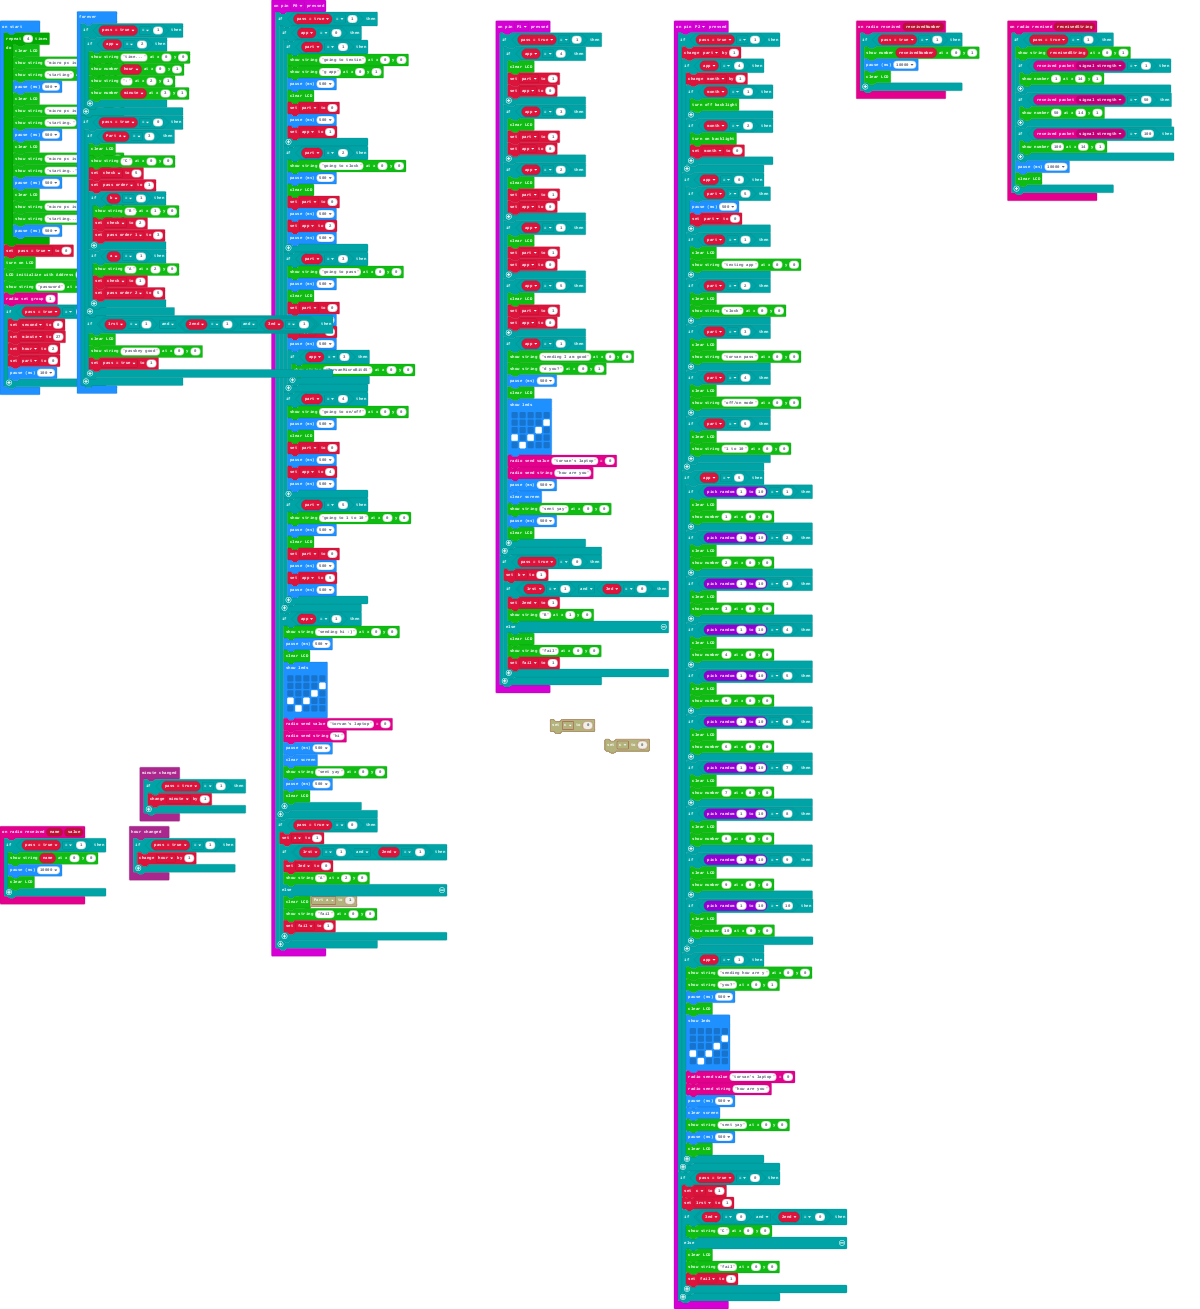
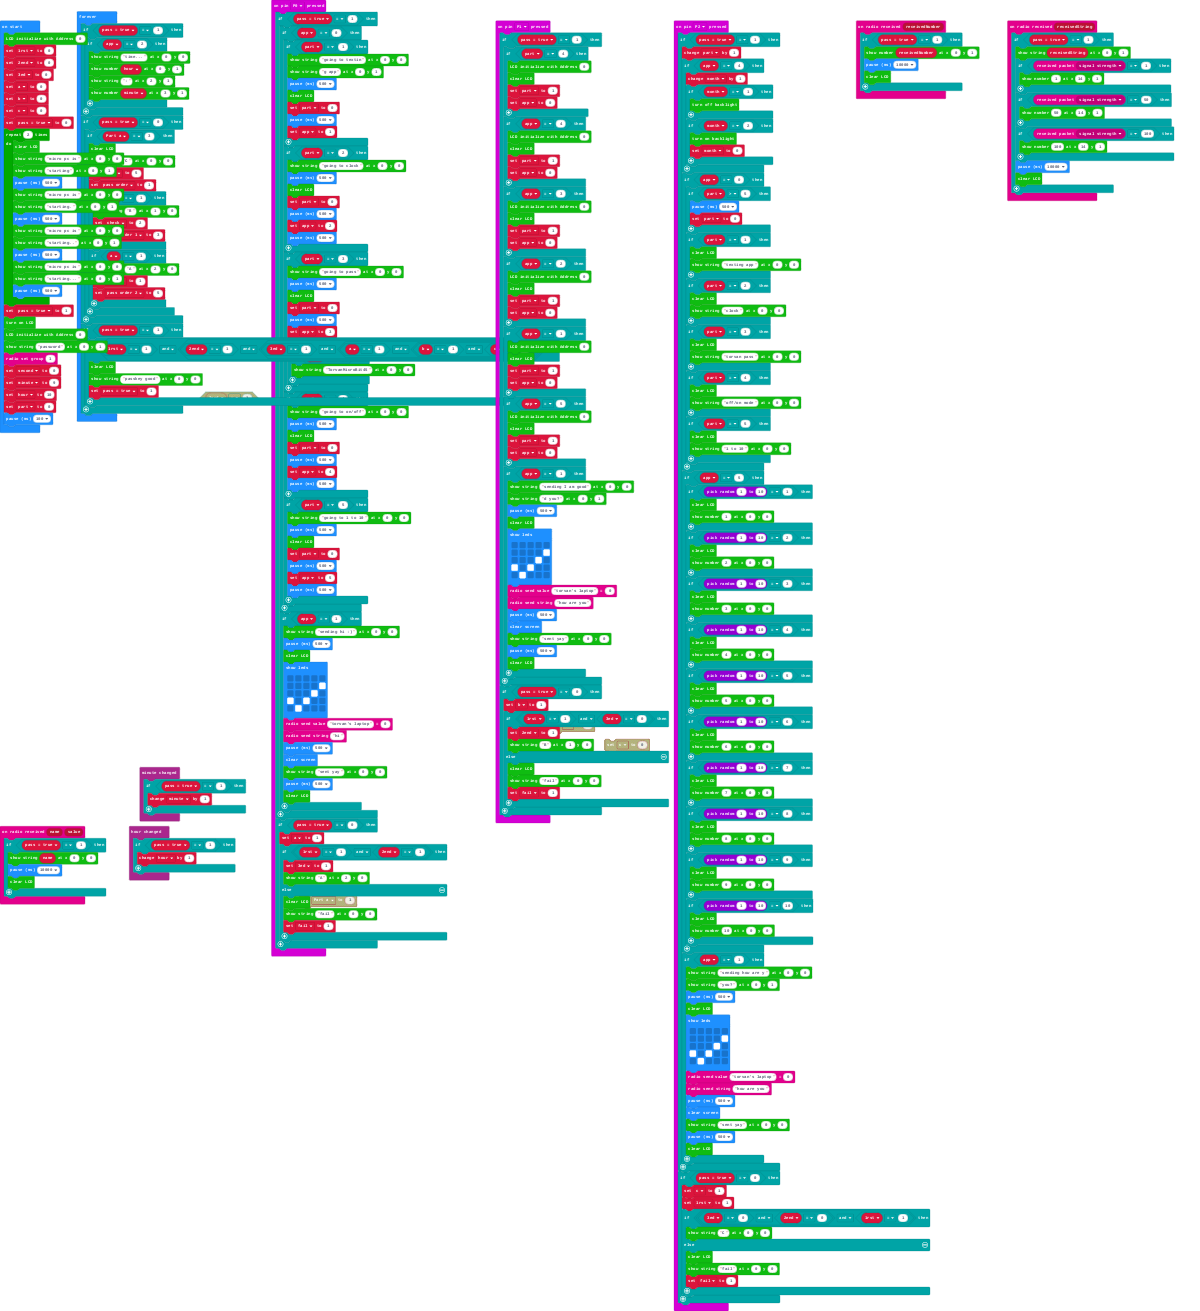
Update main.blocks, main.ts

Changed region(s): [[0.0, 0.0, 0.7708, 1.0], [0.8633, 0.0917, 0.925, 0.1528], [0.5858, 0.0917, 0.6167, 0.1222]]

diff --git a/main.ts b/main.ts
@@ -73,7 +73,7 @@ input.onPinPressed(TouchPin.P0, function () {
     if (pass__true == 0) {
         a = 1
         if (_1rst == 1 && _2end == 1) {
-            _3ed = 0
+            _3ed = 1
             I2C_LCD1602.ShowString("A", 2, 0)
         } else {
             I2C_LCD1602.clear()
@@ -194,7 +194,7 @@ input.onPinPressed(TouchPin.P2, function () {
     if (pass__true == 0) {
         c = 1
         _1rst = 1
-        if (_3ed == 0 && _2end == 0) {
+        if (_3ed == 0 && _2end == 0 && _1rst == 1) {
             I2C_LCD1602.ShowString("C", 0, 0)
         } else {
             I2C_LCD1602.clear()
@@ -226,27 +226,38 @@ radio.onReceivedString(function (receivedString) {
 })
 input.onPinPressed(TouchPin.P1, function () {
     if (pass__true == 1) {
+        if (part == 4) {
+            I2C_LCD1602.LcdInit(0)
+            I2C_LCD1602.clear()
+            part = 1
+            app = 0
+        }
         if (app == 4) {
+            I2C_LCD1602.LcdInit(0)
             I2C_LCD1602.clear()
             part = 1
             app = 0
         }
         if (app == 3) {
+            I2C_LCD1602.LcdInit(0)
             I2C_LCD1602.clear()
             part = 1
             app = 0
         }
         if (app == 2) {
+            I2C_LCD1602.LcdInit(0)
             I2C_LCD1602.clear()
             part = 1
             app = 0
         }
         if (app == 1) {
+            I2C_LCD1602.LcdInit(0)
             I2C_LCD1602.clear()
             part = 1
             app = 0
         }
         if (app == 5) {
+            I2C_LCD1602.LcdInit(0)
             I2C_LCD1602.clear()
             part = 1
             app = 0
@@ -300,50 +311,50 @@ let pass_order_2 = 0
 let pass_order_1 = 0
 let pass_order = 0
 let check = 0
-let b = 0
-let c = 0
 let month = 0
 let fail = 0
+let app = 0
+let part = 0
+let pass__true = 0
+let c = 0
+let b = 0
+let a = 0
 let _3ed = 0
 let _2end = 0
 let _1rst = 0
-let a = 0
-let app = 0
-let part = 0
-let hour = 0
-let minute = 0
-let second = 0
-let pass__true = 0
-for (let index = 0; index < 4; index++) {
+I2C_LCD1602.LcdInit(0)
+_1rst = 0
+_2end = 0
+_3ed = 0
+a = 0
+b = 0
+c = 0
+pass__true = 0
+for (let index = 0; index < 2; index++) {
     I2C_LCD1602.clear()
     I2C_LCD1602.ShowString("micro pc is", 0, 0)
     I2C_LCD1602.ShowString("starting", 0, 1)
     basic.pause(500)
-    I2C_LCD1602.clear()
     I2C_LCD1602.ShowString("micro pc is", 0, 0)
     I2C_LCD1602.ShowString("starting.", 0, 1)
     basic.pause(500)
-    I2C_LCD1602.clear()
     I2C_LCD1602.ShowString("micro pc is", 0, 0)
     I2C_LCD1602.ShowString("starting..", 0, 1)
     basic.pause(500)
-    I2C_LCD1602.clear()
     I2C_LCD1602.ShowString("micro pc is", 0, 0)
     I2C_LCD1602.ShowString("starting...", 0, 1)
     basic.pause(500)
 }
-pass__true = 0
+pass__true = 1
 I2C_LCD1602.on()
 I2C_LCD1602.LcdInit(0)
 I2C_LCD1602.ShowString("password", 0, 1)
 radio.setGroup(1)
-if (pass__true == 1) {
-    second = 0
-    minute = 27
-    hour = 2
-    part = 0
-    basic.pause(100)
-}
+let second = 0
+let minute = 9
+let hour = 10
+part = 0
+basic.pause(100)
 basic.forever(function () {
     if (pass__true == 1) {
         if (app == 2) {
@@ -371,7 +382,9 @@ basic.forever(function () {
                 pass_order_2 = 5
             }
         }
-        if (_1rst == 1 && (_2end == 1 && _3ed == 1)) {
+    }
+    if (pass__true == 1) {
+        if (_1rst == 1 && (_2end == 1 && (_3ed == 1 && (a == 1 && (b == 1 && c == 1))))) {
             I2C_LCD1602.clear()
             I2C_LCD1602.ShowString("passkey good", 0, 0)
             pass__true = 1
